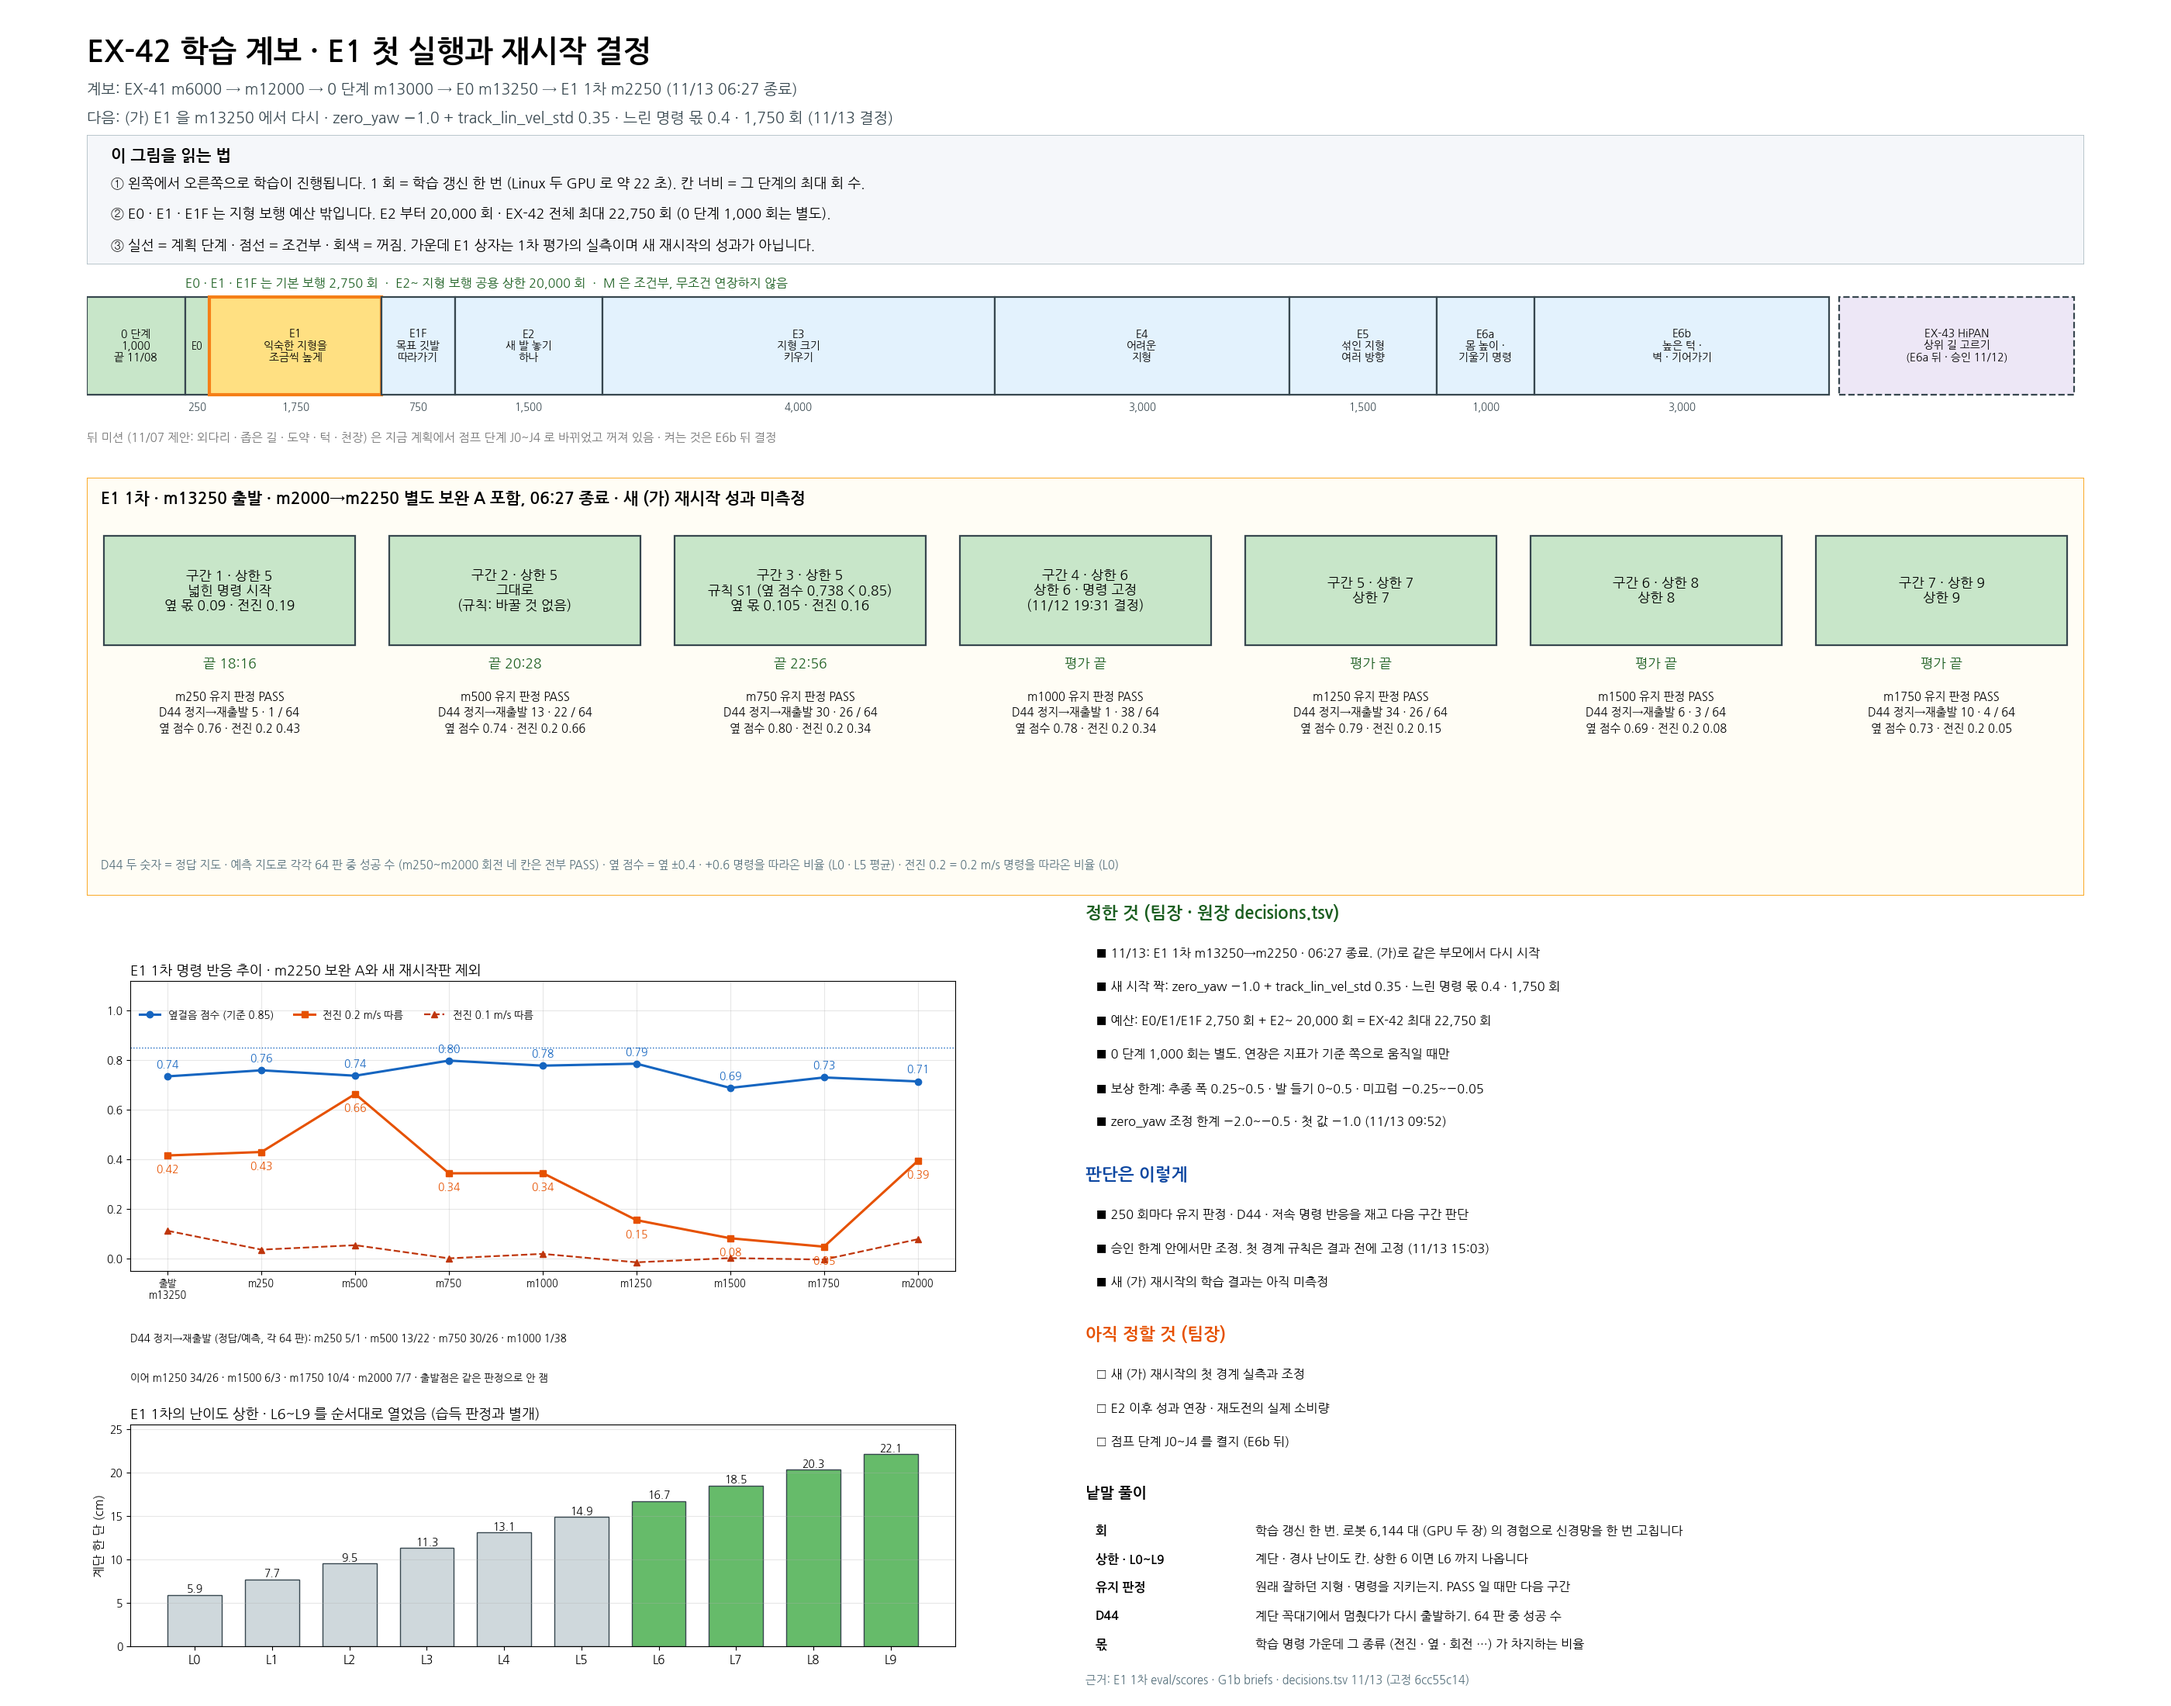
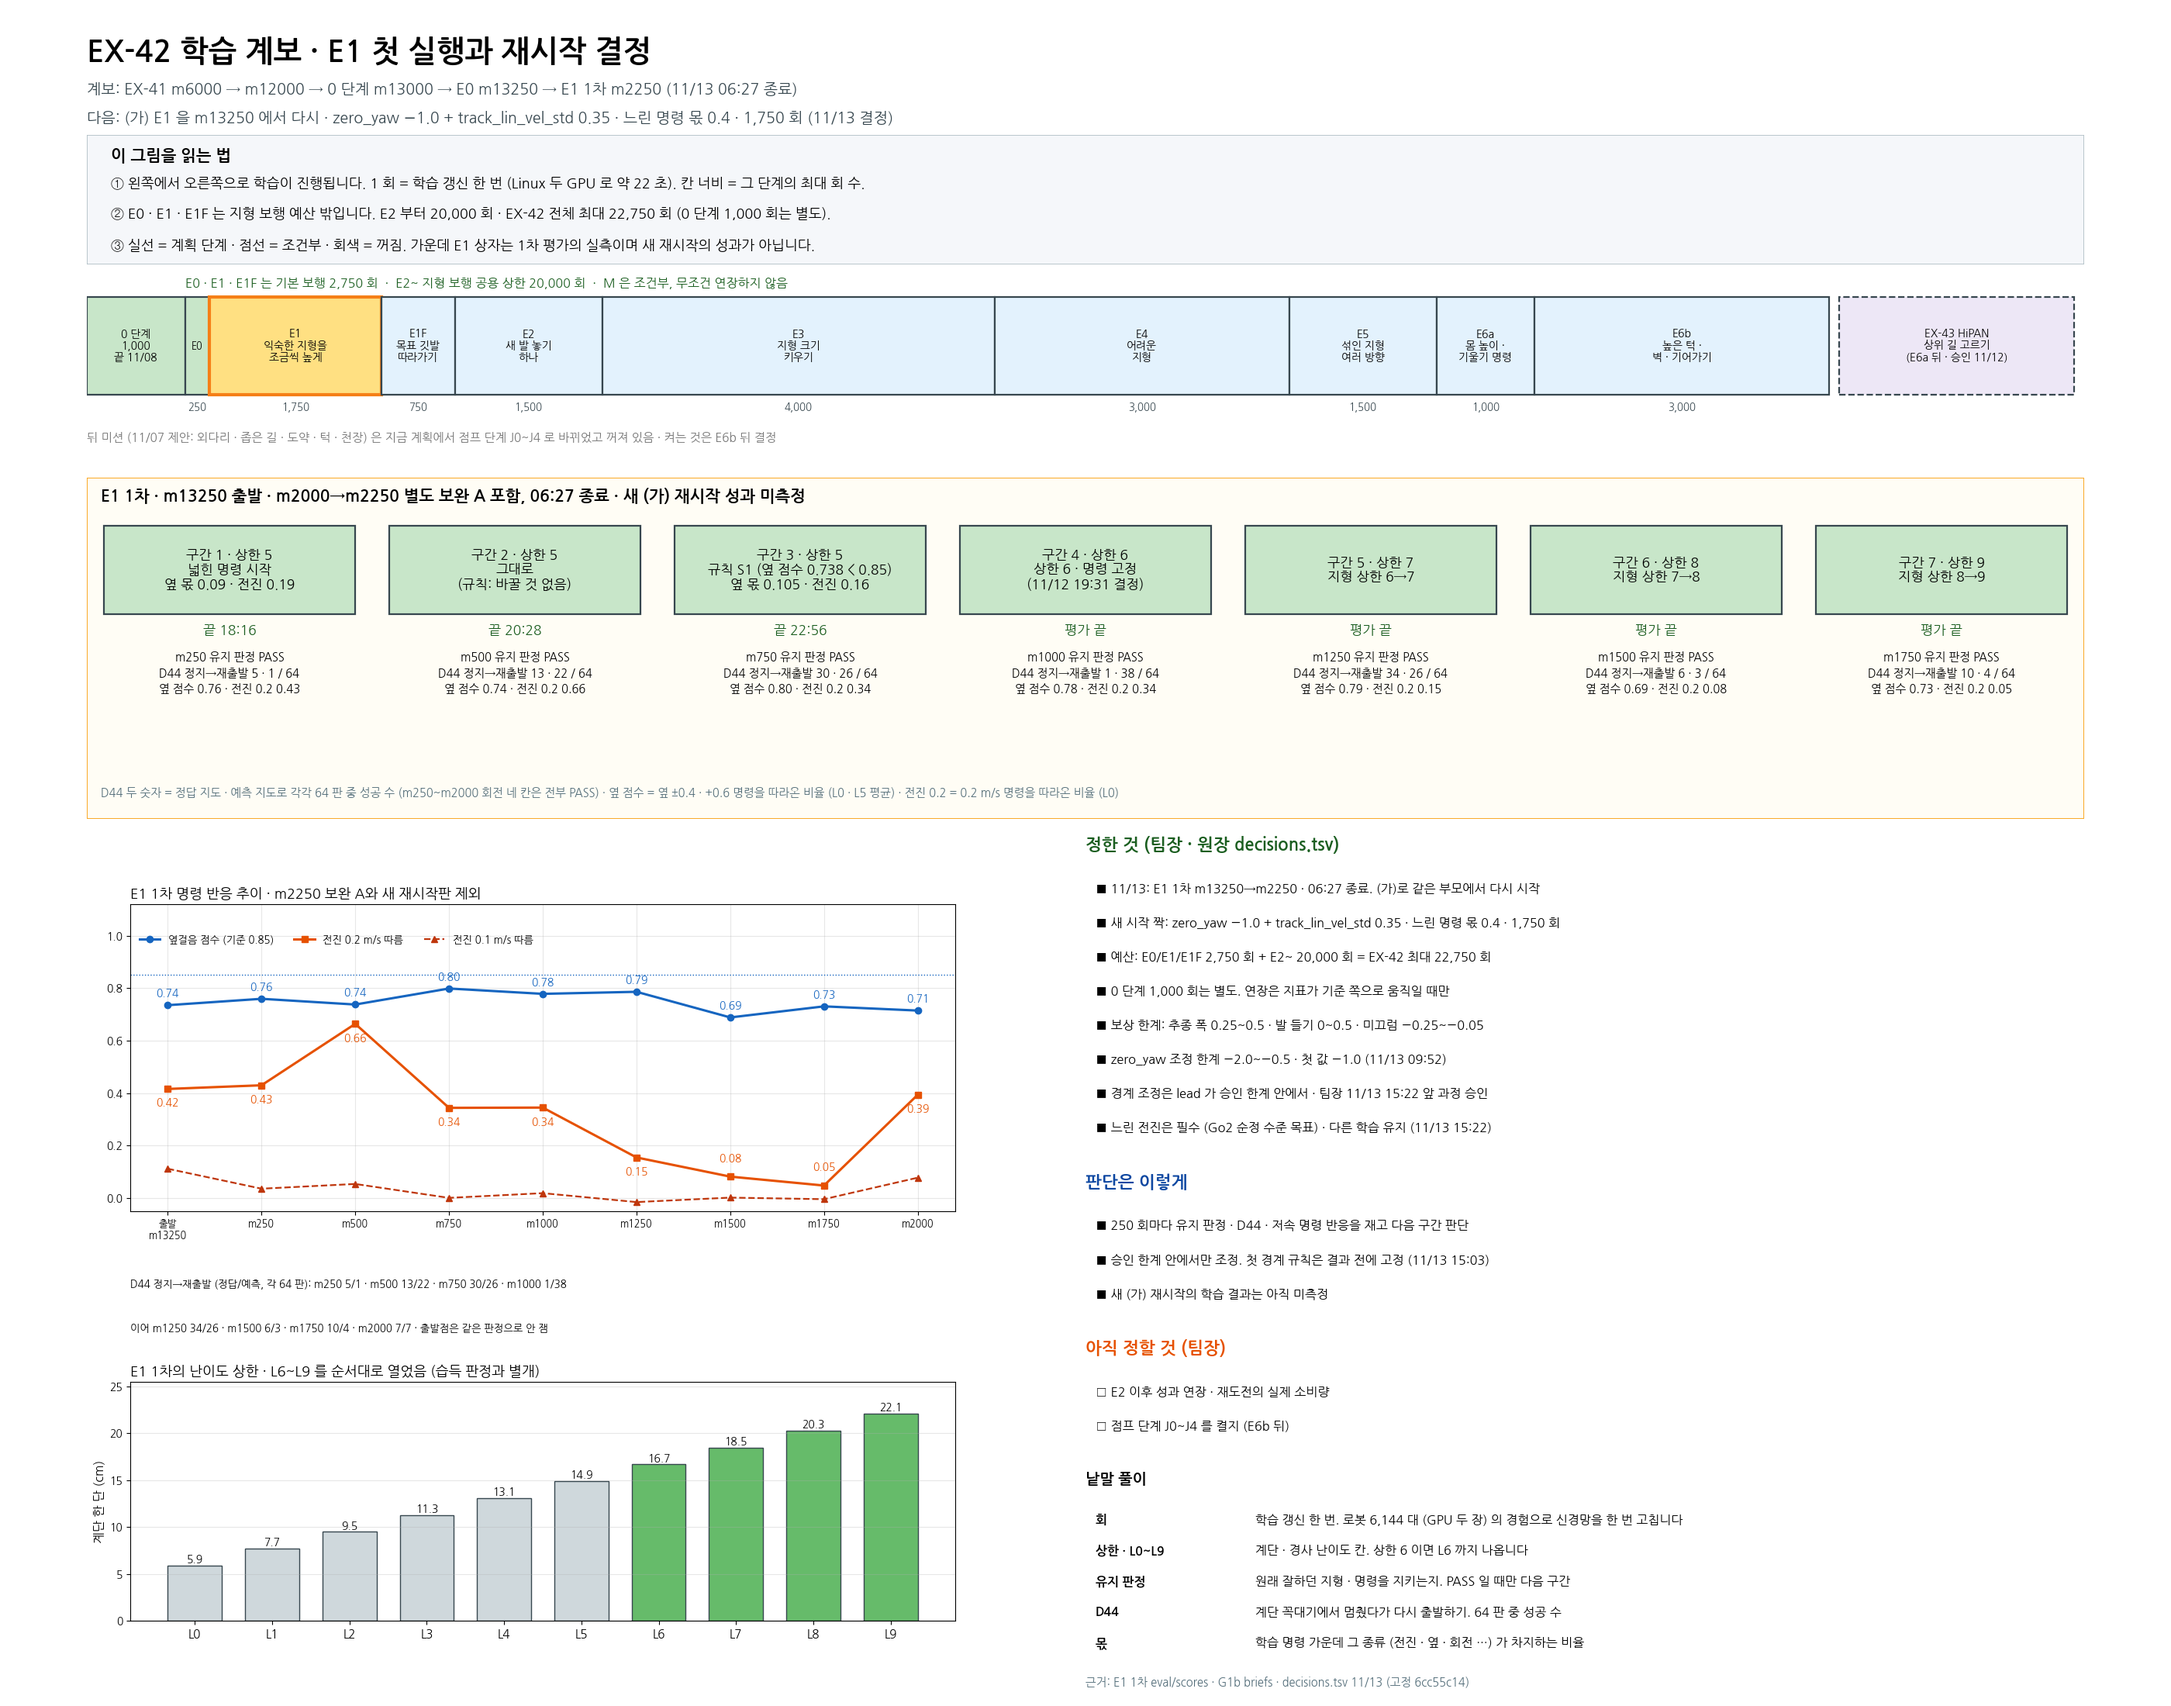
Refine EX-42 lineage v6 layout and decision labels (#555)

diff --git a/inbox/jay/20261103-curriculum-lineage/make_lineage_v6.py b/inbox/jay/20261103-curriculum-lineage/make_lineage_v6.py
@@ -49,7 +49,7 @@ def decision_rows():
         "09:52": ("zero_yaw", "−2.0", "−0.5"),
         "14:29": ("m13250", "zero_yaw", "track_lin_vel_std", "1,750"),
         "15:17": ("low_forward_fraction", "0.4", "E2", "20,000", "22,750", "연장은 무조건"),
-        "15:22": ("v18", "기동"),
+        "15:22": ("v18", "기동", "느린 전진", "다른 학습"),
     }
     for stamp, terms in required.items():
         row = next((line for line in rows if stamp in line.split("\t", 1)[0]), None)
@@ -144,7 +144,7 @@ def draw(path):
             "켜는 것은 E6b 뒤 결정", fontsize=11, color="#757575", va="top")
 
     # (b) E1 seven segments with real results
-    ax = fig.add_axes([0.04, 0.475, 0.92, 0.245])
+    ax = fig.add_axes([0.04, 0.52, 0.92, 0.20])
     ax.set_xlim(0, 7)
     ax.set_ylim(0, 1)
     ax.axis("off")
@@ -155,8 +155,9 @@ def draw(path):
            ("구간 2", 5, "그대로\n(규칙: 바꿀 것 없음)", 500, "끝 20:28"),
            ("구간 3", 5, "규칙 S1 (옆 점수 0.738 < 0.85)\n옆 몫 0.105 · 전진 0.16", 750, "끝 22:56"),
            ("구간 4", 6, "상한 6 · 명령 고정\n(11/12 19:31 결정)", 1000, "평가 끝"),
-           ("구간 5", 7, "상한 7", 1250, "평가 끝"), ("구간 6", 8, "상한 8", 1500, "평가 끝"),
-           ("구간 7", 9, "상한 9", 1750, "평가 끝")]
+           ("구간 5", 7, "지형 상한 6→7", 1250, "평가 끝"),
+           ("구간 6", 8, "지형 상한 7→8", 1500, "평가 끝"),
+           ("구간 7", 9, "지형 상한 8→9", 1750, "평가 끝")]
     for i, (name, cap, what, end, state) in enumerate(seg):
         done = end in res
         fc = "#c8e6c9" if done else "white"
@@ -173,7 +174,7 @@ def draw(path):
     assert all(res[e]["turn_ok"] for e in BOUNDS[1:])
 
     # (c) trend chart
-    ax = fig.add_axes([0.06, 0.255, 0.38, 0.17])
+    ax = fig.add_axes([0.06, 0.29, 0.38, 0.18])
     xs = BOUNDS
     lab = ["출발\nm13250"] + [f"m{b}" for b in BOUNDS[1:]]
     ax.plot(xs, [res[b]["S"] for b in xs], "o-", color="#1565c0", lw=2.2, label="옆걸음 점수 (기준 0.85)")
@@ -183,7 +184,8 @@ def draw(path):
     for b in xs:
         ax.annotate(f"{res[b]['S']:.2f}", (b, res[b]["S"]), textcoords="offset points", xytext=(0, 8), ha="center", fontsize=10,
                     color="#1565c0")
-        ax.annotate(f"{res[b]['L0']['fwd0.2']:.2f}", (b, res[b]["L0"]["fwd0.2"]), textcoords="offset points", xytext=(0, -16),
+        ax.annotate(f"{res[b]['L0']['fwd0.2']:.2f}", (b, res[b]["L0"]["fwd0.2"]), textcoords="offset points",
+                    xytext=(0, 14 if b in (1500, 1750) else -16),
                     ha="center", fontsize=10, color="#e65100")
     ax.set_xticks(xs)
     ax.set_xticklabels(lab, fontsize=9)
@@ -191,7 +193,7 @@ def draw(path):
     ax.grid(alpha=0.3)
     ax.legend(loc="upper left", bbox_to_anchor=(0.0, 0.93), fontsize=9.5, ncol=3, frameon=False)
     ax.set_title("E1 1차 명령 반응 추이 · m2250 보완 A와 새 재시작판 제외", fontsize=13, loc="left")
-    ax2 = fig.add_axes([0.06, 0.174, 0.38, 0.044])
+    ax2 = fig.add_axes([0.06, 0.20, 0.38, 0.05])
     ax2.axis("off")
     d44 = [f"m{b} {res[b]['d44_gt']}/{res[b]['d44_pred']}" for b in BOUNDS[1:]]
     ax2.text(0, 1, "D44 정지→재출발 (정답/예측, 각 64 판): " + " · ".join(d44[:4]),
@@ -200,7 +202,7 @@ def draw(path):
              fontsize=9.5, va="top")
 
     # (d) stair heights (kept from v3) with E1 cap now
-    ax = fig.add_axes([0.06, 0.035, 0.38, 0.13])
+    ax = fig.add_axes([0.06, 0.05, 0.38, 0.14])
     ks = list(range(10))
     st = [lv[k][0] * 100 for k in ks]
     cols = ["#cfd8dc"] * 6 + ["#66bb6a"] * 4  # L6~L9 opened in the first run; not a mastery claim
@@ -215,7 +217,7 @@ def draw(path):
     ax.grid(axis="y", alpha=0.3)
 
     # (e) decided / how we judge / open
-    ax = fig.add_axes([0.50, 0.01, 0.46, 0.46])
+    ax = fig.add_axes([0.50, 0.01, 0.46, 0.50])
     ax.axis("off")
     blocks = [
         ("정한 것 (팀장 · 원장 decisions.tsv)", "#1b5e20", "■", [
@@ -225,6 +227,8 @@ def draw(path):
             "0 단계 1,000 회는 별도. 연장은 지표가 기준 쪽으로 움직일 때만",
             "보상 한계: 추종 폭 0.25~0.5 · 발 들기 0~0.5 · 미끄럼 −0.25~−0.05",
             "zero_yaw 조정 한계 −2.0~−0.5 · 첫 값 −1.0 (11/13 09:52)",
+            "경계 조정은 lead 가 승인 한계 안에서 · 팀장 11/13 15:22 앞 과정 승인",
+            "느린 전진은 필수 (Go2 순정 수준 목표) · 다른 학습 유지 (11/13 15:22)",
         ]),
         ("판단은 이렇게", "#0d47a1", "■", [
             "250 회마다 유지 판정 · D44 · 저속 명령 반응을 재고 다음 구간 판단",
@@ -232,7 +236,6 @@ def draw(path):
             "새 (가) 재시작의 학습 결과는 아직 미측정",
         ]),
         ("아직 정할 것 (팀장)", "#e65100", "□", [
-            "새 (가) 재시작의 첫 경계 실측과 조정",
             "E2 이후 성과 연장 · 재도전의 실제 소비량",
             "점프 단계 J0~J4 를 켤지 (E6b 뒤)",
         ]),
@@ -243,7 +246,7 @@ def draw(path):
         y -= 0.055
         for t in items:
             ax.text(0.01, y, f"{mark} {t}", fontsize=11.6, va="top")
-            y -= 0.043
+            y -= 0.040
         y -= 0.02
     ax.text(0, y, "낱말 풀이", fontsize=14, weight="bold", va="top")
     y -= 0.05
